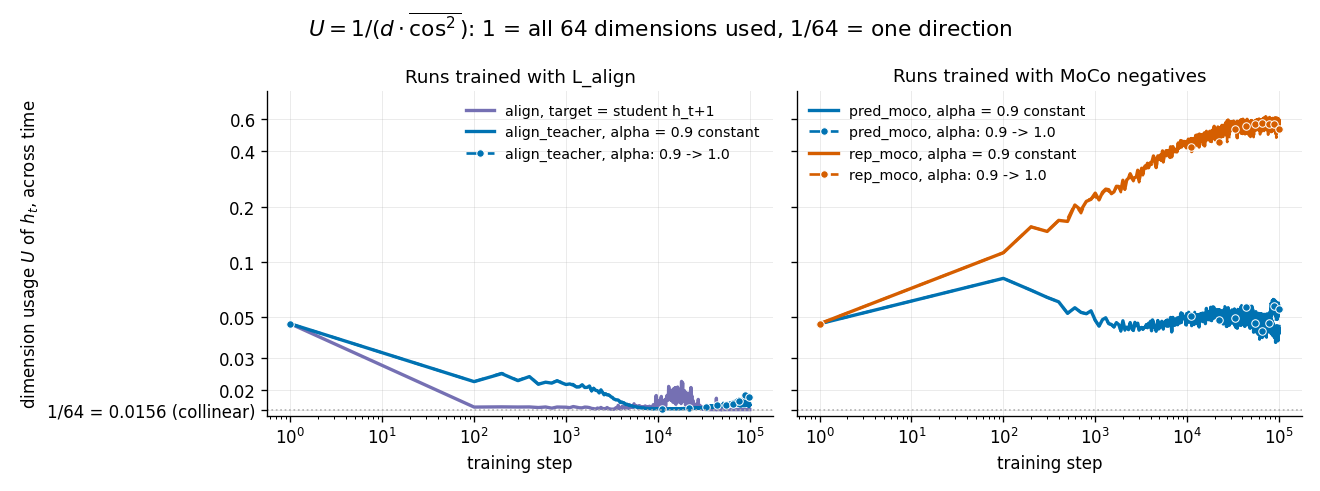
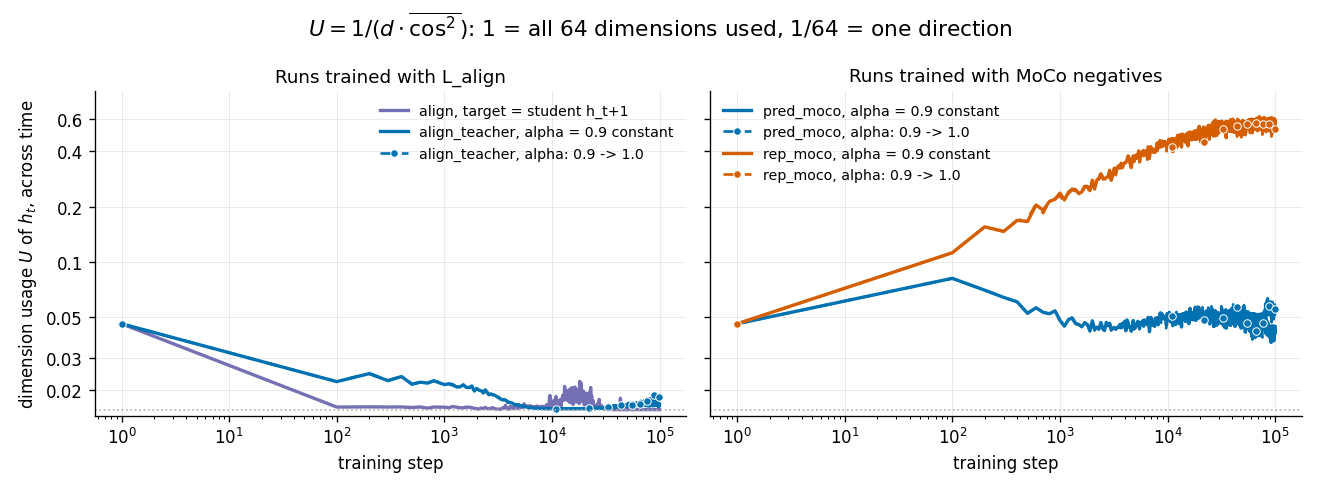
plots: drop the 1/64 tick label; report: say what the left panel shows
The dim-usage floor tick carried its own explanation in the axis. The
suptitle already states 1/64 = one direction, so the tick is noise.

Replaces the single-measurement caveat, which carried no signal, with the
fact the figure exists to show.

Claude-Session: https://claude.ai/code/session_017EXD2AhUf7sREv6WunQhko

diff --git a/experiments/2026-08-01_align_teacher_ema_schedule/scripts/make_plots.py b/experiments/2026-08-01_align_teacher_ema_schedule/scripts/make_plots.py
@@ -332,11 +332,9 @@ DIM_PANELS = [
       ("rep_moco_sched", "#D55E00", "--", "rep_moco, alpha: 0.9 -> 1.0")]),
 ]
 
-# Labelled ticks for the dim-usage axis. The 1/64 floor gets its own label
-# so the "both align arms end near the floor" claim is checkable.
-DIM_TICKS = [1.0 / 64, 0.02, 0.03, 0.05, 0.1, 0.2, 0.4, 0.6]
-DIM_TICK_LABELS = ["1/64 = 0.0156 (collinear)", "0.02", "0.03", "0.05",
-                   "0.1", "0.2", "0.4", "0.6"]
+# Labelled ticks for the dim-usage axis.
+DIM_TICKS = [0.02, 0.03, 0.05, 0.1, 0.2, 0.4, 0.6]
+DIM_TICK_LABELS = ["0.02", "0.03", "0.05", "0.1", "0.2", "0.4", "0.6"]
 
 
 def plot_dim_usage(loss_csv, out_png, n_dims=64):

diff --git a/experiments/2026-08-01_align_teacher_ema_schedule/align_teacher_ema_schedule.md b/experiments/2026-08-01_align_teacher_ema_schedule/align_teacher_ema_schedule.md
@@ -15,7 +15,7 @@ Four regimes:
 
 ![Dimension usage](plots/supporting/dim_usage.png)
 
-One seed per arm, one probe batch, no downstream forecasting evaluation, so every number is a single measurement without a spread.
+In the left panel both `L_align` runs reach the 1/64 floor: `h_t` collapses to a single direction across time, so almost nothing is left to rotate.
 
 ## Drift measured over other step intervals
 
